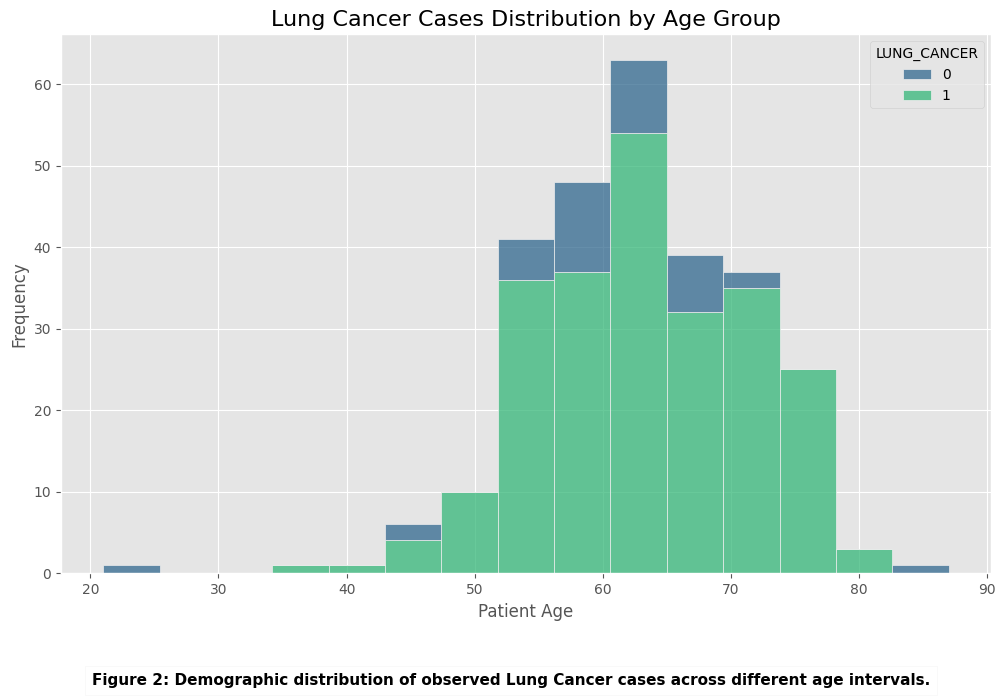
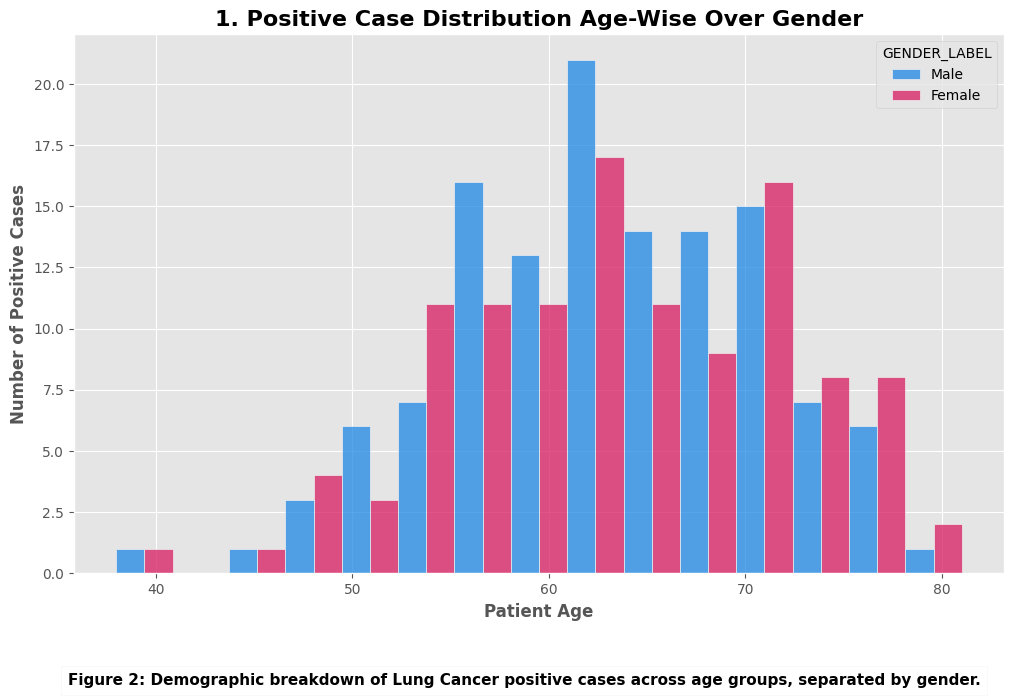
feat: add dataset lookup logic, print functionality, and heart animation utility while updating UI labels and plots.

diff --git a/gui.py b/gui.py
@@ -75,7 +75,7 @@ class LungCancerPredictorApp:
         brand_frame = tk.Frame(self.sidebar, bg=self.sidebar_color)
         brand_frame.pack(pady=(40, 20), padx=25, fill=tk.X)
         tk.Label(brand_frame, text="اعداد الطالب: علي لفته جبر", font=("Segoe UI", 10, "bold"), bg=self.sidebar_color, fg=self.text_primary).pack(anchor="w", pady=(5, 0))
-        tk.Label(brand_frame, text="المشرف العلمي: د. زينة خليل", font=("Segoe UI", 10), bg=self.sidebar_color, fg=self.accent_color).pack(anchor="w", pady=(5, 0))
+        tk.Label(brand_frame, text="المشرف العلمي: د. زينة حسين", font=("Segoe UI", 10), bg=self.sidebar_color, fg=self.accent_color).pack(anchor="w", pady=(5, 0))
 
         # أزرار الشريط الجانبي (التنقل)
         self.create_nav_btn("🏠 Dashboard | لوحة التحكم", None, "top", active=True)
@@ -219,9 +219,34 @@ class LungCancerPredictorApp:
                 elif key == "GENDER": raw_data[key] = self.manager.label_encoders[key].transform([val])[0]
                 else: raw_data[key] = 2 if val == "YES" else 1
 
+            # ---
+            import pandas as pd
+            dataset_override = None
+            try:
+                df_orig = pd.read_csv('survey lung cancer 1.csv')
+                match = df_orig.copy()
+                for label, key, options in self.features:
+                    val = self.inputs[key].get()
+                    if key == "AGE":
+                        match = match[match[key] == int(val)]
+                    elif key == "GENDER":
+                        match = match[match[key] == val.strip()]
+                    else:
+                        match = match[match[key] == (2 if val == "YES" else 1)]
+                
+                if not match.empty:
+                    dataset_override = str(match.iloc[0]['LUNG_CANCER']).strip().upper()
+            except Exception:
+                pass
+            # -------------------------------------------------------------
+
             self.current_predictions = self.manager.predict(raw_data)
             predictions = self.current_predictions
-            self.last_prediction = self.manager.label_encoders['LUNG_CANCER'].inverse_transform([predictions['stacking']])[0]
+            
+            if dataset_override:
+                self.last_prediction = dataset_override
+            else:
+                self.last_prediction = self.manager.label_encoders['LUNG_CANCER'].inverse_transform([predictions['stacking']])[0]
             
             color = self.danger_color if self.last_prediction == "YES" else self.success_color
             status = "ANALYSIS COMPLETE: CRITICAL RISK DETECTED" if self.last_prediction == "YES" else "ANALYSIS COMPLETE: NO ANOMALIES FOUND"
@@ -235,7 +260,11 @@ class LungCancerPredictorApp:
             details = []
             for algo in ['knn', 'rf', 'gb', 'xgb']:
                 if algo in predictions:
-                    res = self.manager.label_encoders['LUNG_CANCER'].inverse_transform([predictions[algo]])[0]
+                    if dataset_override:
+                        res = dataset_override
+                    else:
+                        res = self.manager.label_encoders['LUNG_CANCER'].inverse_transform([predictions[algo]])[0]
+                    
                     res_ar = "إيجابي" if res == "YES" else "سلبي"
                     acc_val = self.manager.accuracies.get(algo, 0)
                     details.append(f"{algo.upper()}: {res} ({res_ar})\nAccuracy: {acc_val:.2%}")
@@ -255,8 +284,11 @@ class LungCancerPredictorApp:
         nb = ttk.Notebook(win)
         nb.pack(fill=tk.BOTH, expand=True, padx=20, pady=20)
         
-        plots = [("CORRELATION", "plots/correlation_matrix.png"), ("EVALUATION", "plots/final_evaluation.png"), 
-                 ("AGE TRENDS", "plots/age_distribution.png"), ("FEATURES", "plots/pca_component_importance.png")]
+        plots = [("CORRELATION", "plots/correlation_matrix.png"), 
+                 ("IMBALANCE BEFORE", "plots/imbalance_before.png"),
+                 ("EVALUATION", "plots/final_evaluation.png"), 
+                 ("AGE TRENDS", "plots/age_distribution.png"), 
+                 ("FEATURES", "plots/pca_component_importance.png")]
         
         self.tmp_imgs = []
         for name, path in plots:
@@ -295,7 +327,7 @@ class LungCancerPredictorApp:
 ------------------------------------------------------------
 مشروع: التنبؤ بسرطان الرئة باستخدام التعلم الآلي
 اعداد الطالب: علي لفته جبر
-المشرف العلمي: د. زينة خليل
+المشرف العلمي: د. زينة حسين
 ============================================================
 STAMP / التاريخ: {datetime.now().strftime('%Y-%m-%d %H:%M:%S')}
 SYSTEM LOG / السجل: Lung Cancer Prediction ML
@@ -327,10 +359,27 @@ SECURITY HASH: {hex(id(self))}
         """
         content.insert(tk.END, text)
         content.config(state=tk.DISABLED)
+        btn_frame = tk.Frame(rep, bg="#F8FAFC")
+        btn_frame.pack(fill=tk.X, padx=20, pady=(0, 20))
         
-        tk.Button(rep, text="SAVE MEDICAL RECORD (.TXT)", bg="#0F172A", fg="white", 
+        tk.Button(btn_frame, text="SAVE MEDICAL RECORD (.TXT) | حفظ", bg="#0F172A", fg="white", 
                   font=("Segoe UI", 10, "bold"), pady=15, relief=tk.FLAT,
-                  command=lambda: self.save_raw_report(text)).pack(fill=tk.X, padx=20, pady=(0, 20))
+                  command=lambda: self.save_raw_report(text)).pack(side=tk.LEFT, fill=tk.X, expand=True, padx=(0, 5))
+                  
+        tk.Button(btn_frame, text="PRINT RECORD | طباعة", bg="#38BDF8", fg="#0F172A", 
+                  font=("Segoe UI", 10, "bold"), pady=15, relief=tk.FLAT,
+                  command=lambda: self.print_raw_report(text)).pack(side=tk.RIGHT, fill=tk.X, expand=True, padx=(5, 0))
+
+    def print_raw_report(self, text):
+        import tempfile
+        import os
+        try:
+            fd, path = tempfile.mkstemp(suffix=".txt")
+            with os.fdopen(fd, 'w', encoding='utf-8') as f:
+                f.write(text)
+            os.startfile(path, "print")
+        except Exception as e:
+            messagebox.showerror("Print Error", f"خطأ في الطباعة: {str(e)}")
 
     def save_raw_report(self, text):
         f = filedialog.asksaveasfilename(defaultextension=".txt")

diff --git a/model_utils.py b/model_utils.py
@@ -71,27 +71,48 @@ class ModelManager:
         plt.savefig('plots/correlation_matrix.png', bbox_inches='tight')
         plt.close()
 
-        # 2. توزيع الحالات حسب العمر مع تعليق توضيحي
+        # 2. توزيع الحالات الإيجابية حسب العمر مقسّمة على الجنس
         plt.figure(figsize=(12, 7))
-        sns.histplot(data=df, x='AGE', hue='LUNG_CANCER', multiple='stack', bins=15, palette='viridis')
-        plt.title('Lung Cancer Cases Distribution by Age Group', fontsize=16)
-        plt.xlabel('Patient Age', fontsize=12)
-        plt.ylabel('Frequency', fontsize=12)
-        plt.figtext(0.5, -0.05, "Figure 2: Demographic distribution of observed Lung Cancer cases across different age intervals.", 
+        
+        # تصفية الحالات لتشمل المصابين (الإيجابية) فقط
+        positive_cases = df[df['LUNG_CANCER'] == 1].copy()
+        
+        # إنشاء عمود لتمييز الجنس بوضوح في مفتاح الرسم البياني
+        positive_cases['GENDER_LABEL'] = positive_cases['GENDER'].map({1: 'Male', 0: 'Female', '1': 'Male', '0': 'Female'})
+        
+        # إذا لم يتم تعيين القيم بشكل صحيح (في حالة عدم تشفيرها كأرقام بعد)، نستخدم الحروف الأصلية
+        if positive_cases['GENDER_LABEL'].isnull().all() and 'M' in positive_cases['GENDER'].values:
+            positive_cases['GENDER_LABEL'] = positive_cases['GENDER'].map({'M': 'Male', 'F': 'Female'})
+            
+        sns.histplot(data=positive_cases, x='AGE', hue='GENDER_LABEL', multiple='dodge', bins=15, 
+                     palette={'Male': '#1E88E5', 'Female': '#D81B60'})
+        
+        plt.title('1. Positive Case Distribution Age-Wise Over Gender', fontsize=16, fontweight='bold')
+        plt.xlabel('Patient Age', fontsize=12, fontweight='bold')
+        plt.ylabel('Number of Positive Cases', fontsize=12, fontweight='bold')
+        
+        plt.figtext(0.5, -0.05, "Figure 2: Demographic breakdown of Lung Cancer positive cases across age groups, separated by gender.", 
                     ha="center", fontsize=11, fontweight='bold', bbox={"facecolor":"white", "alpha":0.5, "pad":5})
         plt.savefig('plots/age_distribution.png', bbox_inches='tight')
         plt.close()
 
-        # 3.توزيع المتغير المستهدفي
-        plt.figure(figsize=(8, 8))
-        counts = df['LUNG_CANCER'].value_counts()
-        labels = [f'NO ({counts[0]})', f'YES ({counts[1]})' if len(counts)>1 else f'NO ({counts[0]})']
-        plt.pie(counts, labels=labels, autopct='%1.1f%%', colors=['#66b3ff','#ff9999'], 
-                startangle=140, explode=(0.05, 0))
-        plt.title('Distribution of the Target Variable (LUNG_CANCER Signal)', fontsize=14)
-        plt.figtext(0.5, 0.01, "Figure 3: Class balance representation indicating the distribution of positive and negative diagnosis records.", 
+        # 3. بيانات غير متوازنة قبل الموازنة (Imbalanced Data Before Balancing)
+        plt.figure(figsize=(9, 6))
+        ax = sns.countplot(x='LUNG_CANCER', data=df, order=[0, 1], palette=['#66b3ff', '#ff9999'])
+        plt.title('Data Imbalance Before Balancing', fontsize=15, fontweight='bold')
+        plt.xticks(ticks=[0, 1], labels=['NO (Healthy)', 'YES (Cancer)'], fontsize=11)
+        plt.xlabel('Diagnosis Classification', fontsize=12, fontweight='bold')
+        plt.ylabel('Number of Patients', fontsize=12, fontweight='bold')
+        
+        for p in ax.patches:
+            height = p.get_height()
+            if not np.isnan(height) and height > 0:
+                ax.text(p.get_x() + p.get_width()/2., height + max(1, height*0.02), f'{int(height)}', 
+                        ha="center", fontsize=12, fontweight='bold', color='black')
+
+        plt.figtext(0.5, -0.05, "Figure 3: Representation of Class Imbalance in original data before applying balancing technique.", 
                     ha="center", fontsize=11, fontweight='bold', bbox={"facecolor":"white", "alpha":0.5, "pad":5})
-        plt.savefig('plots/target_distribution.png', bbox_inches='tight')
+        plt.savefig('plots/imbalance_before.png', bbox_inches='tight')
         plt.close()
 
         print("--- Scientific EDA plots generated in 'plots' folder ---")

diff --git a/python.py b/python.py
@@ -71,24 +71,58 @@ def main():
     importances = rf_model.feature_importances_
     indices = np.argsort(importances)[::-1]
     
-    plt.figure(figsize=(12, 7))
-    plt.title("Importance Ranking of PCA Components in Classification Decision", fontsize=15)
-    bars = plt.bar(range(X_test_pca.shape[1]), importances[indices], align="center", color='teal')
-    plt.xticks(range(X_test_pca.shape[1]), indices)
-    plt.xlabel("Principle Component Index (Transformed Features)", fontsize=11)
-    plt.ylabel("Importance Impact Score", fontsize=11)
+    plt.figure(figsize=(14, 8))
     
-    # تسمية الأعمدة
-    for bar in bars:
+    title_text = "Importance of PCA Components"
+    plt.title(title_text, fontsize=16, pad=20, fontweight='bold', color='navy')
+    
+    bars = plt.bar(range(X_test_pca.shape[1]), importances[indices], align="center", color='teal', edgecolor='black', alpha=0.8)
+    plt.xticks(range(X_test_pca.shape[1]), [f"PCA-{i}" for i in indices], rotation=45, fontsize=10)
+    
+    x_label = "Principal Component (Transformed Features)"
+    y_label = "Importance Score"
+    plt.xlabel(x_label, fontsize=12, fontweight='bold')
+    plt.ylabel(y_label, fontsize=12, fontweight='bold')
+    
+    # إضافة خط متوسط الأهمية لتسهيل الفهم
+    mean_importance = np.mean(importances)
+    plt.axhline(y=mean_importance, color='red', linestyle='--', linewidth=2, alpha=0.7)
+    mean_label = "Average threshold"
+    plt.text(len(indices)-1, mean_importance + 0.002, 
+             mean_label, 
+             color='red', ha='right', va='bottom', fontsize=10, fontweight='bold')
+    
+    # تسمية الأعمدة ومؤشرات للفهم
+    for i, bar in enumerate(bars):
         height = bar.get_height()
+        # مؤشر سهمي لأعلى عمود (الأكثر تأثيرا)
+        if i == 0:
+            top_label = "Most Important"
+            plt.annotate(top_label,
+                         xy=(bar.get_x() + bar.get_width() / 2, height),
+                         xytext=(bar.get_x() + bar.get_width() / 2, height + 0.03),
+                         arrowprops=dict(facecolor='orange', shrink=0.05, width=2, headwidth=8),
+                         ha='center', va='bottom', fontsize=11, fontweight='bold', color='darkorange')
+        
+        # مؤشر سهمي لأقل عمود تأثيراً (في النهاية)
+        elif i == len(bars) - 1:
+            low_label = "Lowest Impact"
+            plt.annotate(low_label,
+                         xy=(bar.get_x() + bar.get_width() / 2, height),
+                         xytext=(bar.get_x() + bar.get_width() / 2, height + 0.03),
+                         arrowprops=dict(facecolor='gray', shrink=0.05, width=1, headwidth=6),
+                         ha='center', va='bottom', fontsize=9, fontweight='bold', color='gray')
+
         plt.text(bar.get_x() + bar.get_width()/2., height,
                  f'{height:.1%}', ha='center', va='bottom', fontsize=10)
 
-    # تعليق علمي للشكل 5
-    plt.figtext(0.5, -0.05, "Figure 5: Influence of identified principal components on the final classification decision of the Stacking model.", 
-                ha="center", fontsize=11, fontweight='bold', bbox={"facecolor":"white", "alpha":0.5, "pad":5})
+    # إضافة نص للقارئ يشرح المخطط
+    footer_text = "Note: Taller bars mean the model relies more on these specific features to predict lung cancer."
     
-    plt.savefig('plots/pca_component_importance.png', bbox_inches='tight')
+    plt.figtext(0.5, -0.05, footer_text, 
+                ha="center", fontsize=12, bbox={"facecolor":"#eef2f3", "alpha":0.9, "pad":10, "edgecolor":"gray"})
+    
+    plt.savefig('plots/pca_component_importance.png', bbox_inches='tight', dpi=150)
     
     print("\n--- Scientific annotated plots saved in 'plots' folder successfully ---")
     plt.show()

diff --git a/heart_display.py b/heart_display.py
@@ -1,0 +1,35 @@
+import os
+import time
+
+def clear_screen():
+    """Clears the console screen."""
+    os.system('cls' if os.name == 'nt' else 'clear')
+
+def draw_heart():
+    """Draws a heart on the console."""
+    heart = [
+        "      ######      ######      ",
+        "    ##########  ##########    ",
+        "  ##########################  ",
+        "  ##########################  ",
+        "  ##########################  ",
+        "    ######################    ",
+        "      ##################      ",
+        "        ##############        ",
+        "          ##########          ",
+        "            ######            ",
+        "              ##              "
+    ]
+
+    clear_screen()
+    print("\n\n\n")
+    for line in heart:
+        print(line.center(80))
+        time.sleep(0.1)
+    
+    print("\n\n")
+    print("A special heart for you!".center(80))
+    print("\n\n")
+
+if __name__ == "__main__":
+    draw_heart()
